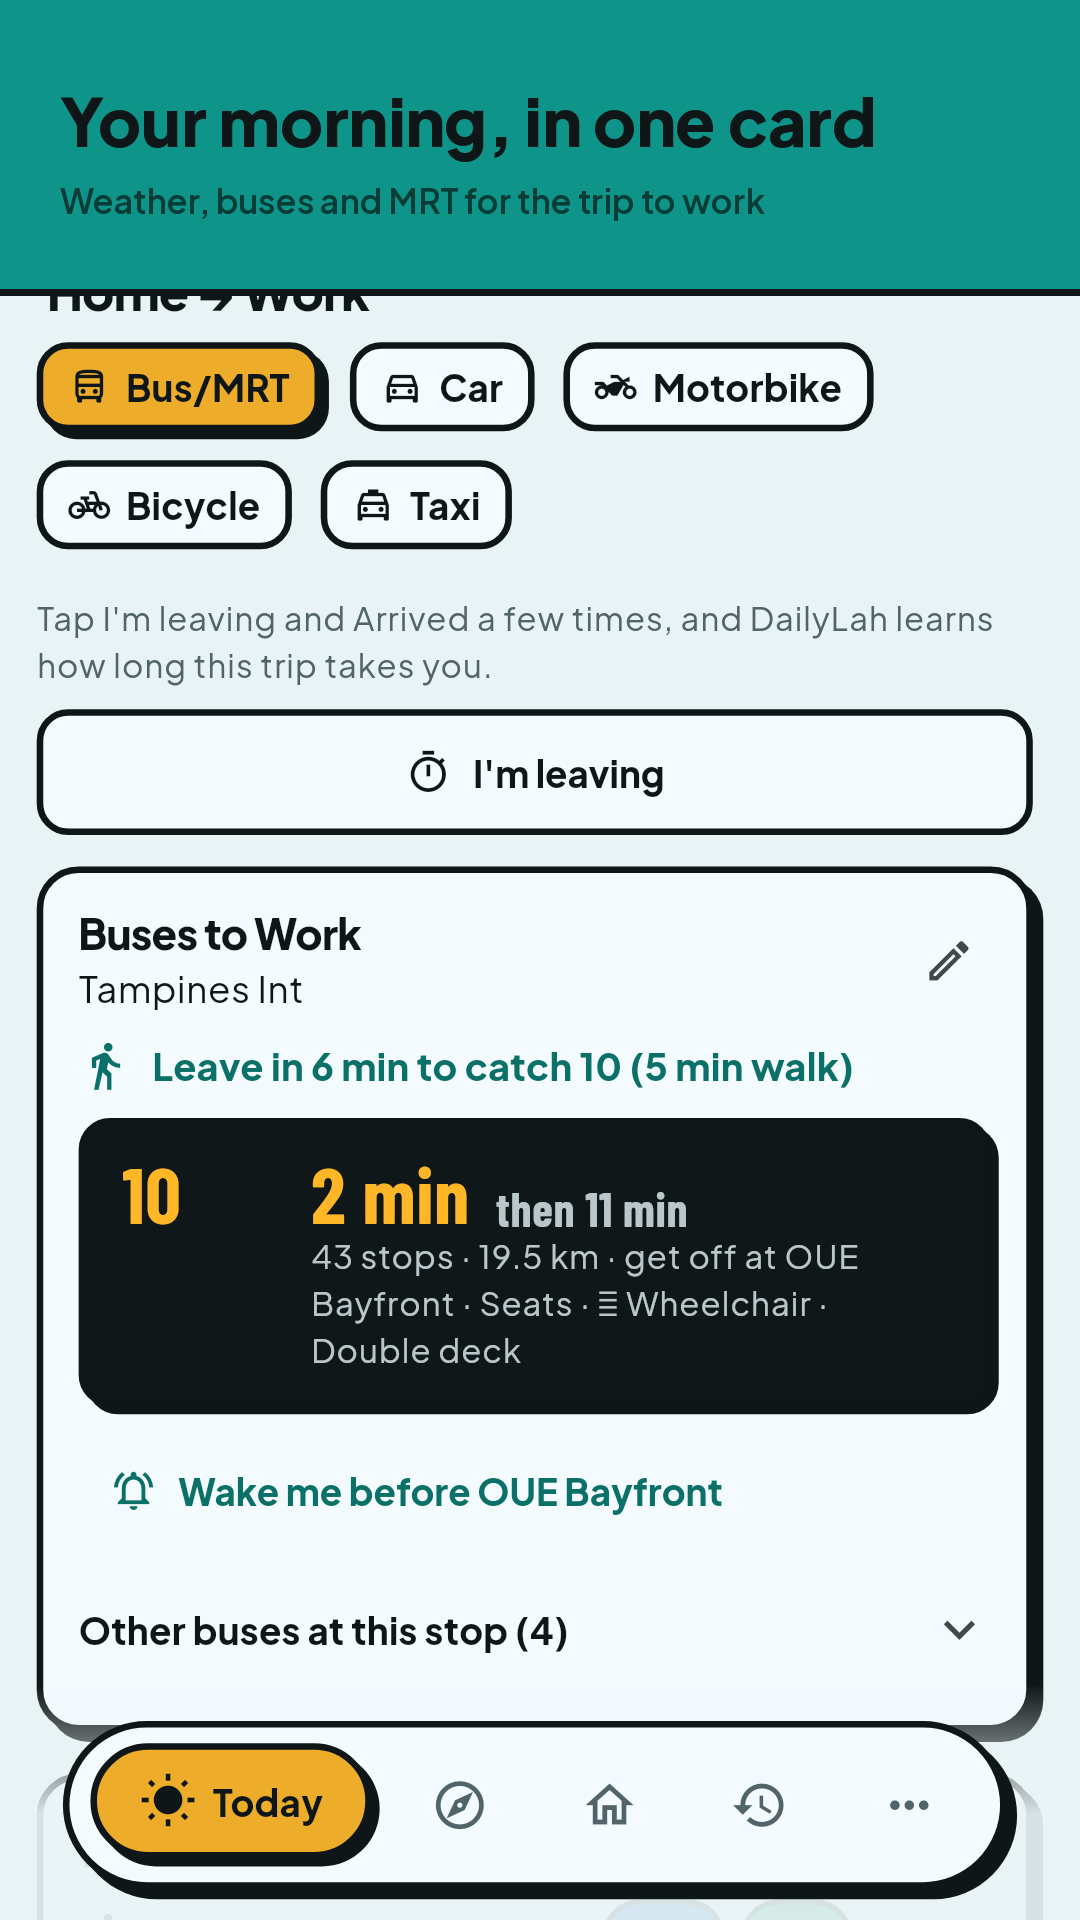
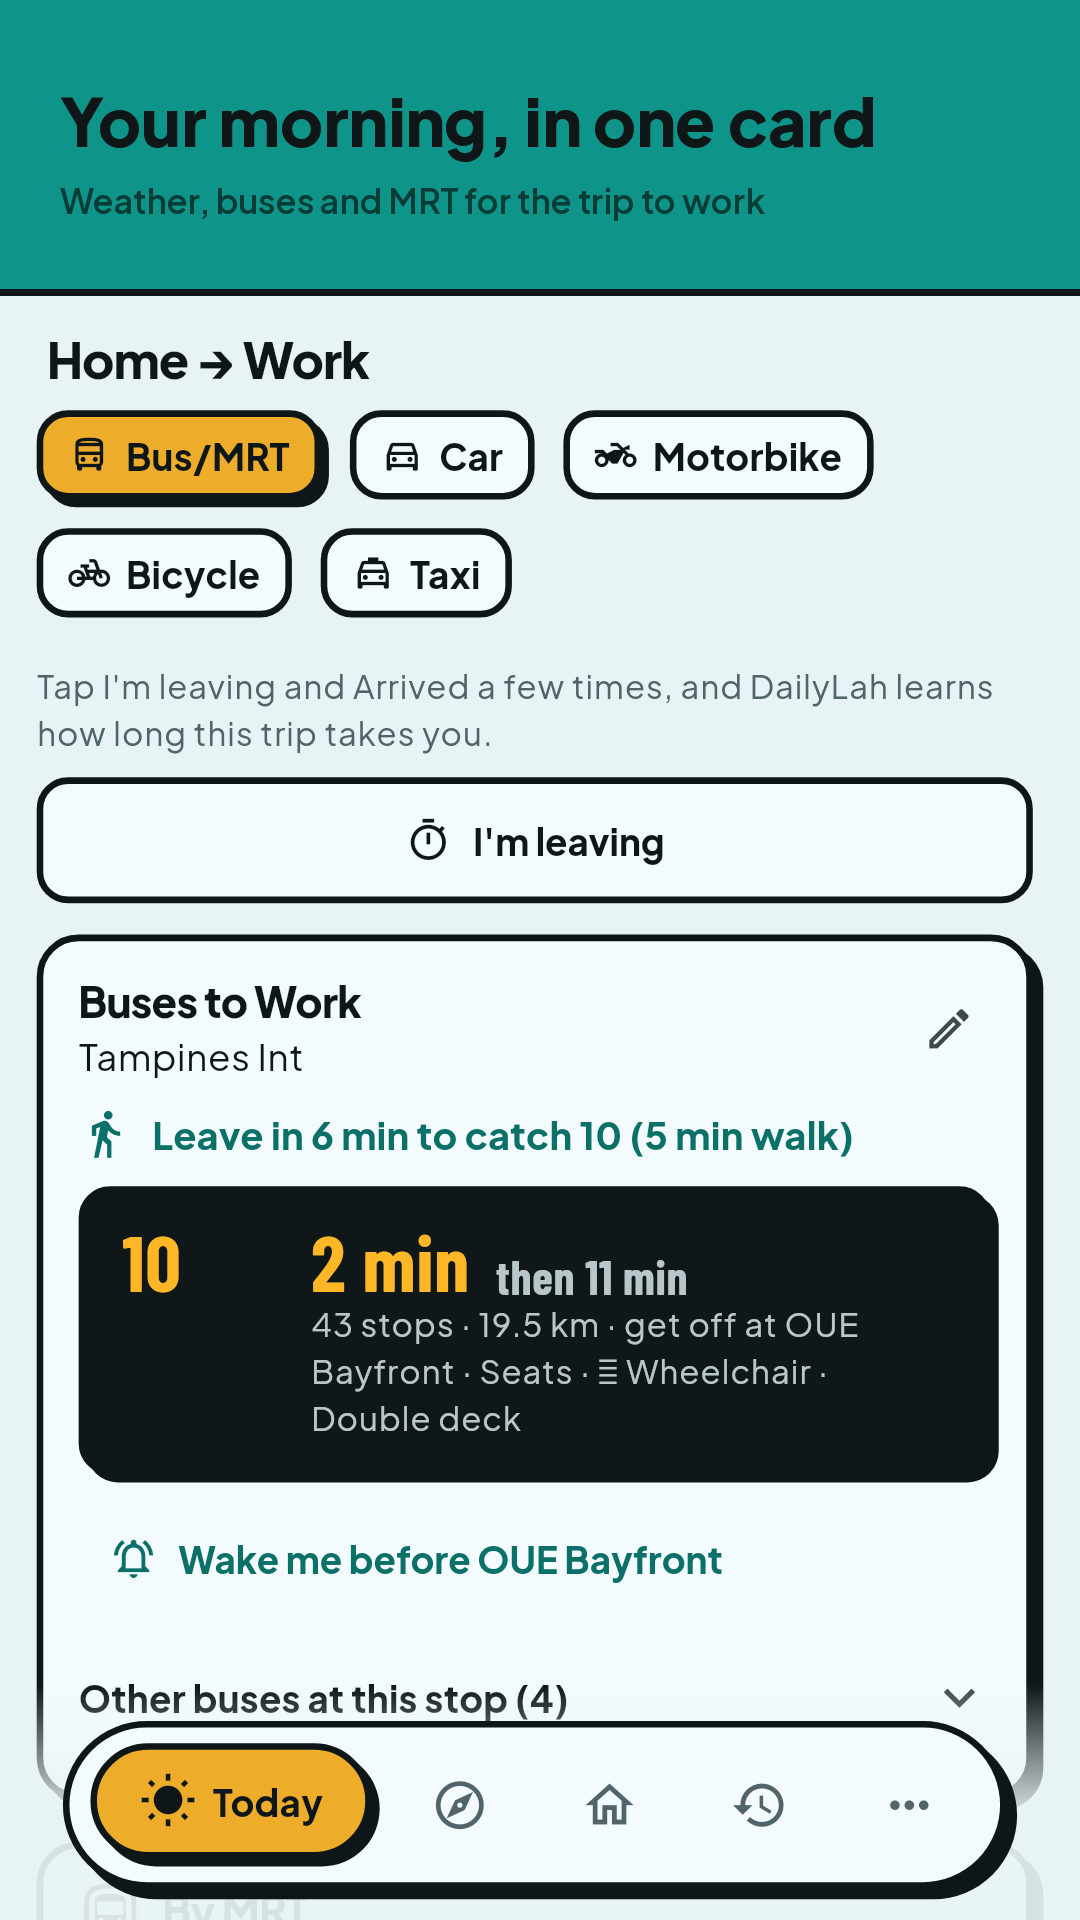
Line up the scrolled Play Store screenshots (#60)
* Start scrolled screenshots on a section heading

01, 03, 06 and 07 scrolled by fixed amounts and began half way through a card under the
caption band. Scroll to the section heading instead (Home → Work, the History totals,
This weekend near home).

Claude-Session: https://claude.ai/code/session_01StfDZDu8aeBj44HoMWzgBi

* Update Play Store screenshots

* Show the Plan B bus board in full; weekend from Home's chip row

Claude-Session: https://claude.ai/code/session_01StfDZDu8aeBj44HoMWzgBi

* Update Play Store screenshots

---------

Changed region(s): [[0.0306, 0.1562, 0.9778, 0.9375], [0.8861, 0.875, 0.9778, 0.9375]]

diff --git a/app/test_store/store_screenshots_test.dart b/app/test_store/store_screenshots_test.dart
@@ -8,6 +8,7 @@ import 'dart:io';
 import 'package:dailylah/main.dart';
 import 'package:dailylah/models.dart';
 import 'package:dailylah/providers.dart';
+import 'package:dailylah/ui/widgets.dart';
 import 'package:dailylah/wake_session.dart';
 import 'package:flutter/material.dart';
 import 'package:flutter/services.dart';
@@ -140,11 +141,15 @@ class _DemoWake extends WakeNotifier {
   WakeState? build() => const WakeState(service: '858', alight: fullertonSq, left: 2300, closest: 2300);
 }
 
-/// Scrolls the visible main list down by [dy] logical pixels.
-Future<void> _scroll(WidgetTester tester, double dy) async {
-  final list = find.byType(Scrollable).hitTestable().first;
-  await tester.drag(list, Offset(0, -dy), warnIfMissed: false);
-  await tester.pump(const Duration(milliseconds: 600));
+/// Scrolls so [target] sits at the top of the screen, with a little room above it, so the
+/// shot starts on a whole section instead of half a card.
+Future<void> _scrollTo(WidgetTester tester, Finder target) async {
+  final ctx = tester.element(target.first);
+  await Scrollable.ensureVisible(ctx);
+  await tester.pump();
+  final pos = Scrollable.of(ctx).position;
+  pos.jumpTo((pos.pixels - 12).clamp(0, pos.maxScrollExtent));
+  await tester.pump(const Duration(milliseconds: 300));
 }
 
 Future<void> _shoot(
@@ -181,7 +186,7 @@ void main() {
   setUpAll(_loadFonts);
 
   // Today: the trip to work with live buses.
-  testWidgets('01 today', (t) => _shoot(t, '01-today', setUp: (t, box) => _scroll(t, 640)));
+  testWidgets('01 today', (t) => _shoot(t, '01-today', setUp: (t, box) => _scrollTo(t, find.text('Home → Work'))));
 
   testWidgets('02 wake me', (t) => _shoot(t, '02-wake', wake: true, setUp: (t, box) async {
         box.read(shellTabProvider.notifier).state = 1;
@@ -189,7 +194,7 @@ void main() {
       }));
 
   // EWL disrupted: the trip card puts buses first with a Plan B note.
-  testWidgets('03 plan b', (t) => _shoot(t, '03-planb', disruptedLine: 'EWL', setUp: (t, box) => _scroll(t, 700)));
+  testWidgets('03 plan b', (t) => _shoot(t, '03-planb', disruptedLine: 'EWL', setUp: (t, box) => _scrollTo(t, find.textContaining('disrupted on your way'))));
 
   testWidgets('04 parks', (t) => _shoot(t, '04-parks', at: saturdayMorning, setUp: (t, box) async {
         box.read(shellTabProvider.notifier).state = 1;
@@ -205,11 +210,14 @@ void main() {
         await t.runAsync(() => box.read(habitsProvider.notifier).restore(_week(saturdayMorning)));
         box.read(shellTabProvider.notifier).state = 3;
         await settle(t);
-        await _scroll(t, 300);
+        await _scrollTo(t, find.byType(BentoTile));
       }));
 
-  // Saturday: no commute, so Today shows the weekend card.
-  testWidgets('07 weekend', (t) => _shoot(t, '07-weekend', at: saturdayMorning, setUp: (t, box) => _scroll(t, 820)));
+  // Home > Weekend: the chip row under the block hero, with places and events near home.
+  testWidgets('07 weekend', (t) => _shoot(t, '07-weekend', at: saturdayMorning, setUp: (t, box) async {
+        box.read(shellTabProvider.notifier).state = 2;
+        box.read(homeSectionProvider.notifier).state = 'weekend';
+      }));
 
   // More > Share with family: a QR code, no account.
   testWidgets('08 family', (t) => _shoot(t, '08-family', setUp: (t, box) async {

diff --git a/scripts/frame_screenshots.py b/scripts/frame_screenshots.py
@@ -23,7 +23,7 @@ CAPTIONS = {
     "04-parks": ("Parks near you", "Toilets, playgrounds and a good time to go"),
     "05-home": ("All about your HDB block", "Upgrading works, schools, clinics and prices"),
     "06-history": ("Where your transport money goes", "MRT, bus and HDB parking costs, estimated for you"),
-    "07-weekend": ("Weekend sorted", "Parks, museums and events near home"),
+    "07-weekend": ("Weekend sorted", "Parks, museums and events near your block"),
     "08-family": ("Share with family", "Your places in one QR code. No account, no server"),
 }
 
